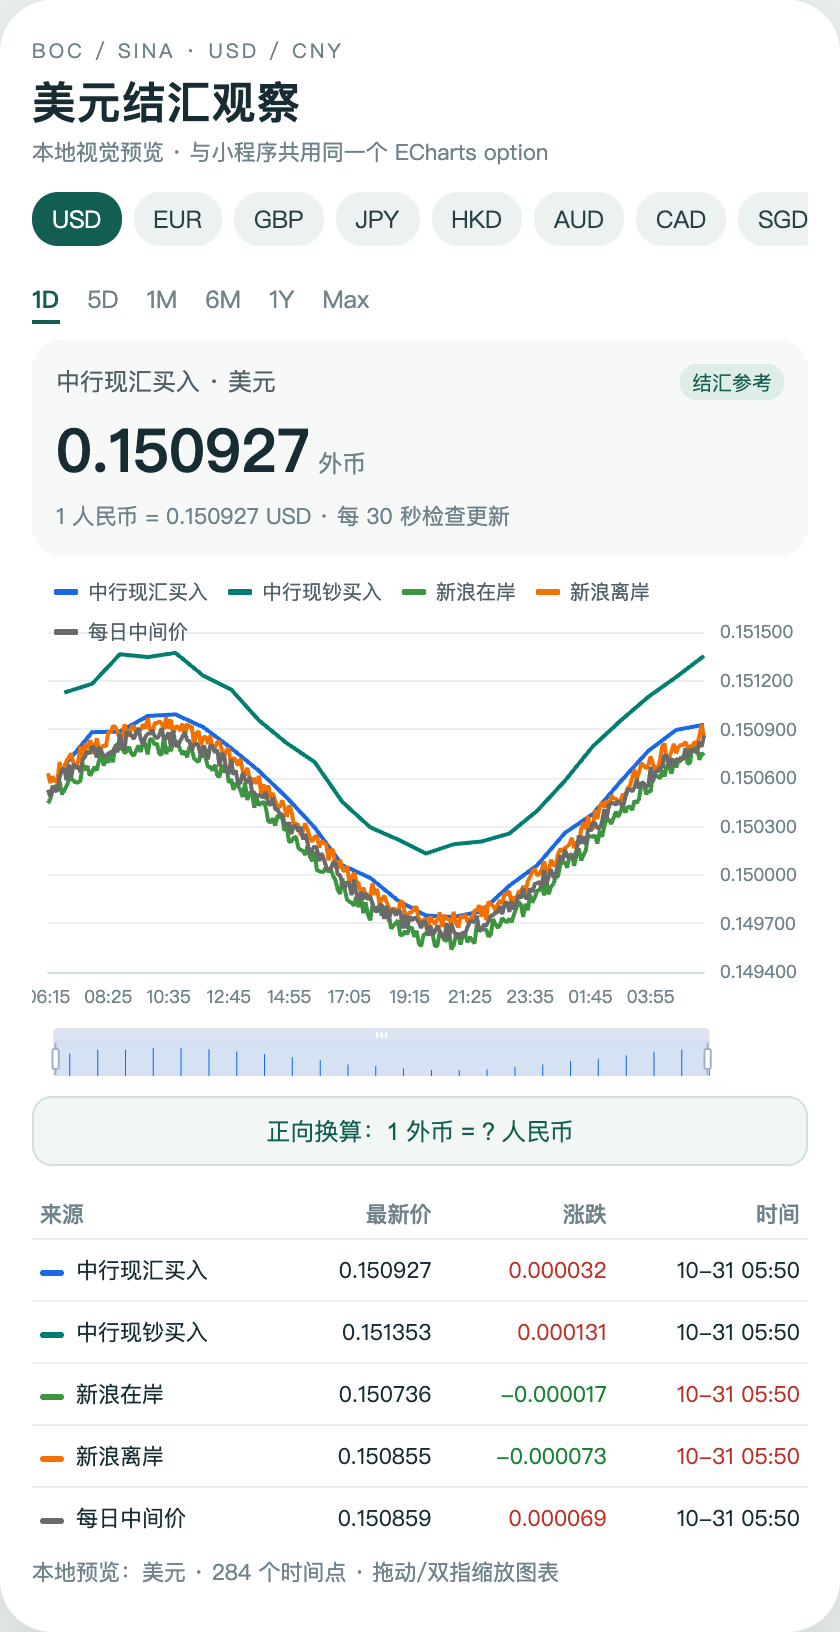
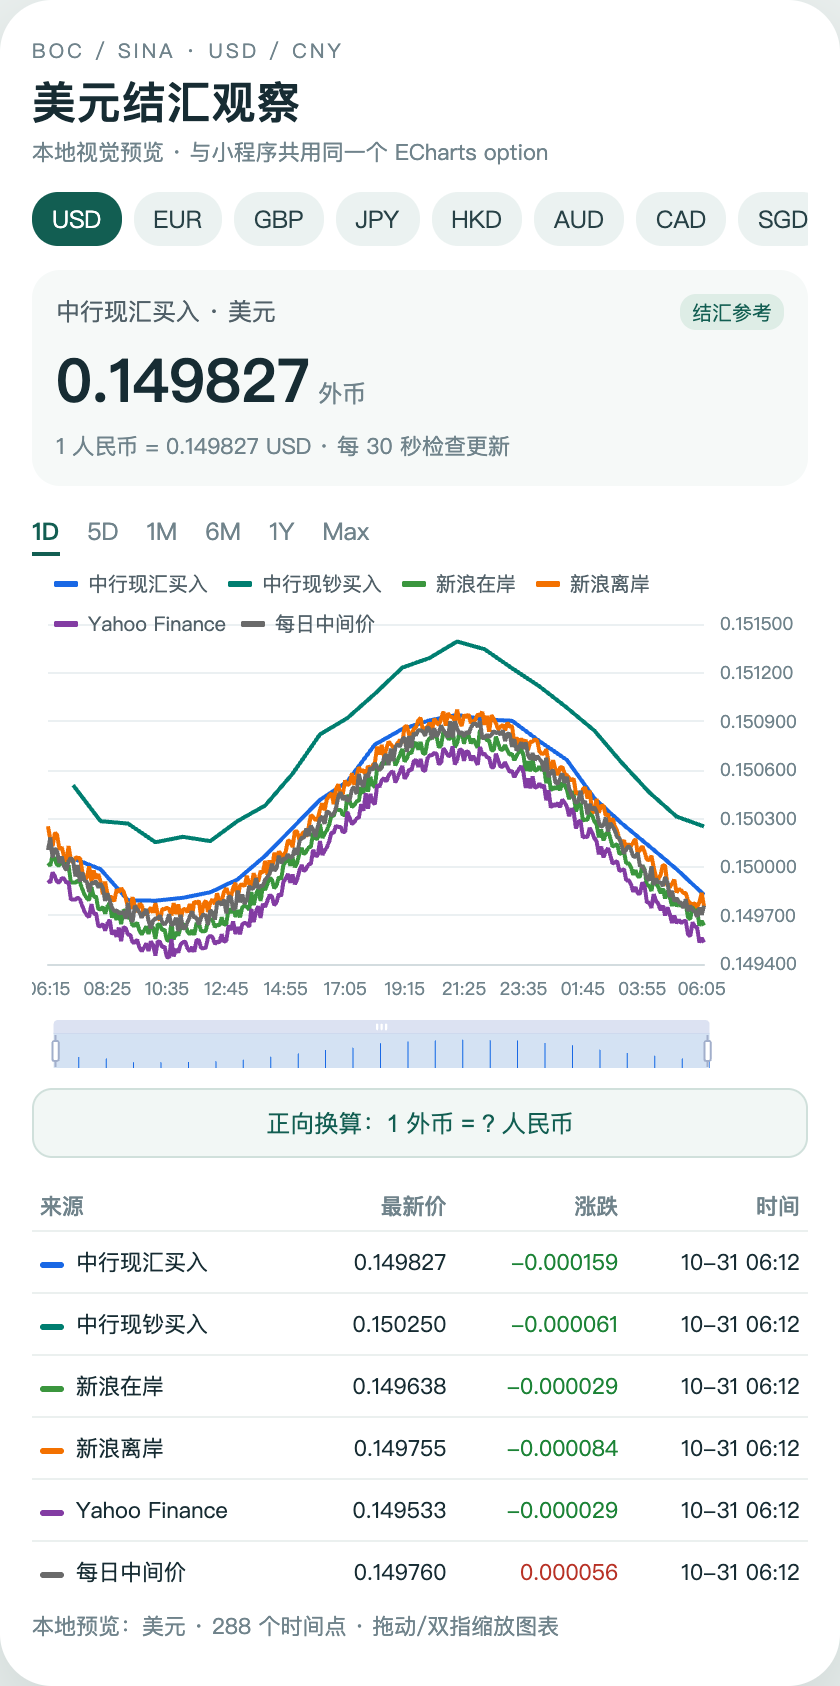
feat: add Yahoo Finance source; range presets above chart

diff --git a/tools/preview.html b/tools/preview.html
@@ -41,12 +41,12 @@
   <h1>美元结汇观察</h1>
   <div class="subtitle">本地视觉预览 · 与小程序共用同一个 ECharts option</div>
   <div class="chips" id="pairs"></div>
-  <div class="ranges" id="ranges"></div>
   <div class="card">
     <div class="quoteTop"><span class="quoteLabel" id="quoteLabel">中行现汇买入</span><span class="tag" id="quoteTag">结汇参考</span></div>
     <div class="price" id="quotePrice">—<small> 元</small></div>
     <div class="muted" id="quoteMeta">1 外币兑人民币 · 每 30 秒检查更新</div>
   </div>
+  <div class="ranges" id="ranges"></div>
   <div class="chart" id="chart"></div>
   <button class="toggle" id="reverse">反向换算：1 人民币 = ? 外币</button>
   <table>

diff --git a/backend/sources.py b/backend/sources.py
@@ -3,6 +3,7 @@ import json
 import re
 import time
 import urllib.request
+from concurrent.futures import ThreadPoolExecutor
 from datetime import datetime
 
 from backend.core import PAIRS, SCALE, TZ, parse_boc_table, source_meta
@@ -10,6 +11,8 @@ from backend.core import PAIRS, SCALE, TZ, parse_boc_table, source_meta
 BOC_URL = 'https://www.boc.cn/sourcedb/whpj/'
 SINA_URL = 'https://hq.sinajs.cn/list=%s'
 DAILY_URL = 'https://open.er-api.com/v6/latest/USD'
+YAHOO_URL = 'https://query1.finance.yahoo.com/v8/finance/chart/%s?interval=5m&range=1d'
+YAHOO_TIMEOUT = 8
 
 SINA_SYMBOLS = {
     'USD': 'fx_susdcny', 'EUR': 'fx_seurcny', 'GBP': 'fx_sgbpcny', 'JPY': 'fx_sjpycny',
@@ -96,6 +99,35 @@ def _daily():
     return result
 
 
+def _yahoo_pair(pair):
+    symbol = 'CNY=X' if pair == 'USD' else pair + 'CNY=X'
+    payload = json.loads(_get(YAHOO_URL % symbol, timeout=YAHOO_TIMEOUT).decode('utf-8'))
+    result = payload['chart']['result'][0]
+    meta = result.get('meta') or {}
+    closes = (result.get('indicators', {}).get('quote') or [{}])[0].get('close') or []
+    price = next((value for value in reversed(closes) if value), meta.get('regularMarketPrice'))
+    epoch = meta.get('regularMarketTime')
+    if not price or not epoch or not 0.000001 < float(price) < 1000:
+        raise ValueError('Yahoo 行情不可用')
+    stamp = datetime.fromtimestamp(int(epoch), TZ).isoformat()
+    return pair, (int(round(float(price) * SCALE)), stamp)
+
+
+def _yahoo():
+    result = {}
+    with ThreadPoolExecutor(max_workers=8) as pool:
+        futures = {pair: pool.submit(_yahoo_pair, pair) for pair in PAIRS}
+        for pair, future in futures.items():
+            try:
+                pair, quote = future.result(timeout=YAHOO_TIMEOUT + 4)
+                result[pair] = quote
+            except Exception:
+                continue
+    if not result:
+        raise ValueError('Yahoo 行情不可用')
+    return result
+
+
 def fetch_all(source):
     """Return {pair: (integer price, ISO stamp)} for one source."""
     source_meta(source)
@@ -108,4 +140,6 @@ def fetch_all(source):
         return _cached('cnh', 20, lambda: _sina({'USD': 'fx_susdcnh'}))
     if source == 'daily':
         return _cached('daily', 1800, _daily)
+    if source == 'yahoo':
+        return _cached('yahoo', 45, _yahoo)
     raise ValueError('未知的报价来源')

diff --git a/tools/seed_preview.py b/tools/seed_preview.py
@@ -50,9 +50,12 @@ def main(path):
                 points.append((pair, source, stamp.isoformat(), int(round(price * SCALE)), stamp.isoformat()))
         index += 1
         stamp += step
+    # Yahoo Finance proxy line for the visual harness (slightly above market mid).
+    yahoo = [(pair, 'yahoo', stamp, int(round(price * 1.0007)), observed)
+             for pair, source, stamp, price, observed in points if source == 'sina']
     with sqlite3.connect(path) as db:
-        db.executemany('INSERT OR IGNORE INTO quotes(pair,source,stamp,price,observed) VALUES(?,?,?,?,?)', points)
-    print(f'seeded {len(points)} quotes into {path}')
+        db.executemany('INSERT OR IGNORE INTO quotes(pair,source,stamp,price,observed) VALUES(?,?,?,?,?)', points + yahoo)
+    print(f'seeded {len(points) + len(yahoo)} quotes into {path}')
 
 
 if __name__ == '__main__':

diff --git a/backend/core.py b/backend/core.py
@@ -31,6 +31,8 @@ SOURCES = {
                  'stale_after': 300, 'accept_age': 900},
     'cnh':      {'label': '新浪离岸', 'bank': '新浪财经·离岸', 'color': '#f57c00',
                  'stale_after': 300, 'accept_age': 900},
+    'yahoo':    {'label': 'Yahoo Finance', 'bank': 'Yahoo Finance', 'color': '#8e44ad',
+                 'stale_after': 300, 'accept_age': 900},
     'daily':    {'label': '每日中间价', 'bank': '公开汇率日更', 'color': '#757575',
                  'stale_after': 172800, 'accept_age': 172800},
 }

diff --git a/README.md b/README.md
@@ -21,7 +21,7 @@ curl http://127.0.0.1:8000/health
 
 ## 报价来源与货币对
 
-小程序顶部可切换 **16 个热门 CNY 货币对**（USD、EUR、GBP、JPY、HKD、AUD、CAD、SGD、CHF、NZD、KRW、THB、MYR、RUB、INR、TWD），同一货币对最多对照 **5 个来源**：
+小程序顶部可切换 **16 个热门 CNY 货币对**（USD、EUR、GBP、JPY、HKD、AUD、CAD、SGD、CHF、NZD、KRW、THB、MYR、RUB、INR、TWD），同一货币对最多对照 **6 个来源**：
 
 | 来源 | 覆盖 | 更新频率 | 说明 |
 | --- | --- | --- | --- |
@@ -29,6 +29,7 @@ curl http://127.0.0.1:8000/health
 | 中行现钞买入 | 同上 | 同上 | 与现汇对比看结汇差 |
 | 新浪在岸 | 16 对全覆盖 | 秒级 tick | 公开市场行情，非银行牌价 |
 | 新浪离岸 | USD/CNH | 秒级 tick | 离岸市场，波动可能与在岸有差异 |
+| Yahoo Finance | 16 对全覆盖 | 秒级/5 分钟 | 全球公开行情，作为交叉校验来源 |
 | 每日中间价 | 16 对 | 每日 | 公开日更汇率兜底，缺失来源显示 — |
 
 不同来源口径不同，**不要直接比较绝对值**。监测规则按「货币对 + 来源」触发，只使用该来源的报价。

diff --git a/docs/CHART_SPEC.md b/docs/CHART_SPEC.md
@@ -35,7 +35,7 @@
 ## 颜色（最多 5 条线）
 
 中行现汇买入：蓝 `#1a73e8`；中行现钞买入：青 `#00897b`；
-新浪在岸：绿 `#43a047`；新浪离岸：橙 `#f57c00`；中间价/日更：灰 `#757575`。
+新浪在岸：绿 `#43a047`；新浪离岸：橙 `#f57c00`；Yahoo Finance：紫 `#8e44ad`；中间价/日更：灰 `#757575`。
 
 ## 交互
 
@@ -50,7 +50,7 @@
 点击行可切换是否画到图上。反向换算按钮：`1 外币 = x CNY` ⇄ `1 CNY = x 外币`，
 JPY/HKD/KRW/THB 等按 100 单位习惯标注。
 
-## 数据源（≤5）
+## 数据源（6）
 
 | id | 名称 | 覆盖 | 频率 |
 | --- | --- | --- | --- |
@@ -58,6 +58,7 @@ JPY/HKD/KRW/THB 等按 100 单位习惯标注。
 | boc_cash | 中行现钞买入价 | 约 20 种 | 工作日不定时 |
 | sina_cny | 新浪在岸 | 16 个 CNY 对 | 秒级 |
 | sina_cnh | 新浪离岸 | 少数（USD 等） | 近 24h |
+| yahoo | Yahoo Finance | 16 对 | 秒级/5 分钟 |
 | fixing | 中间价/公开日更兜底 | 16 对 | 每日 |
 
 16 个货币对：USD、EUR、GBP、JPY、HKD、AUD、CAD、SGD、CHF、NZD、KRW、THB、MYR、RUB、INR、TWD。
